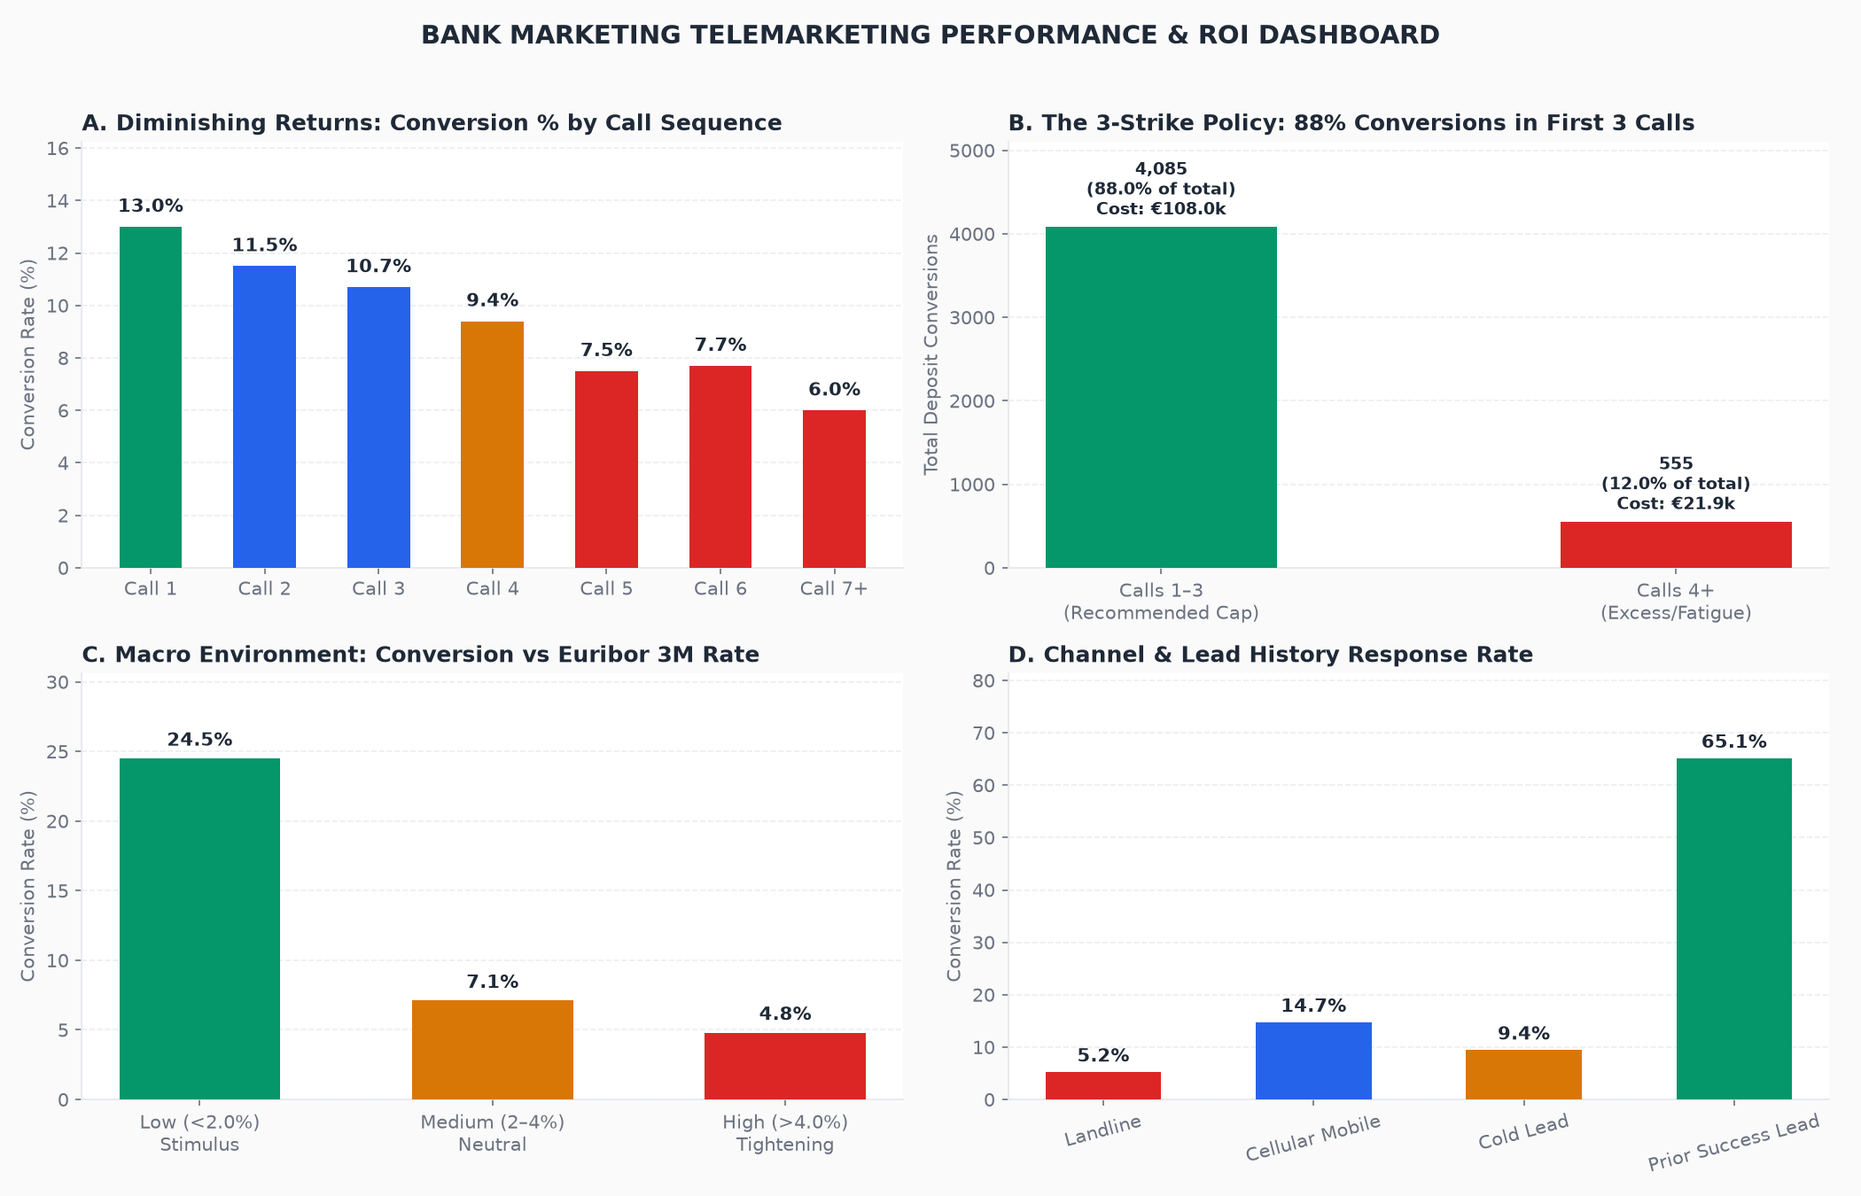
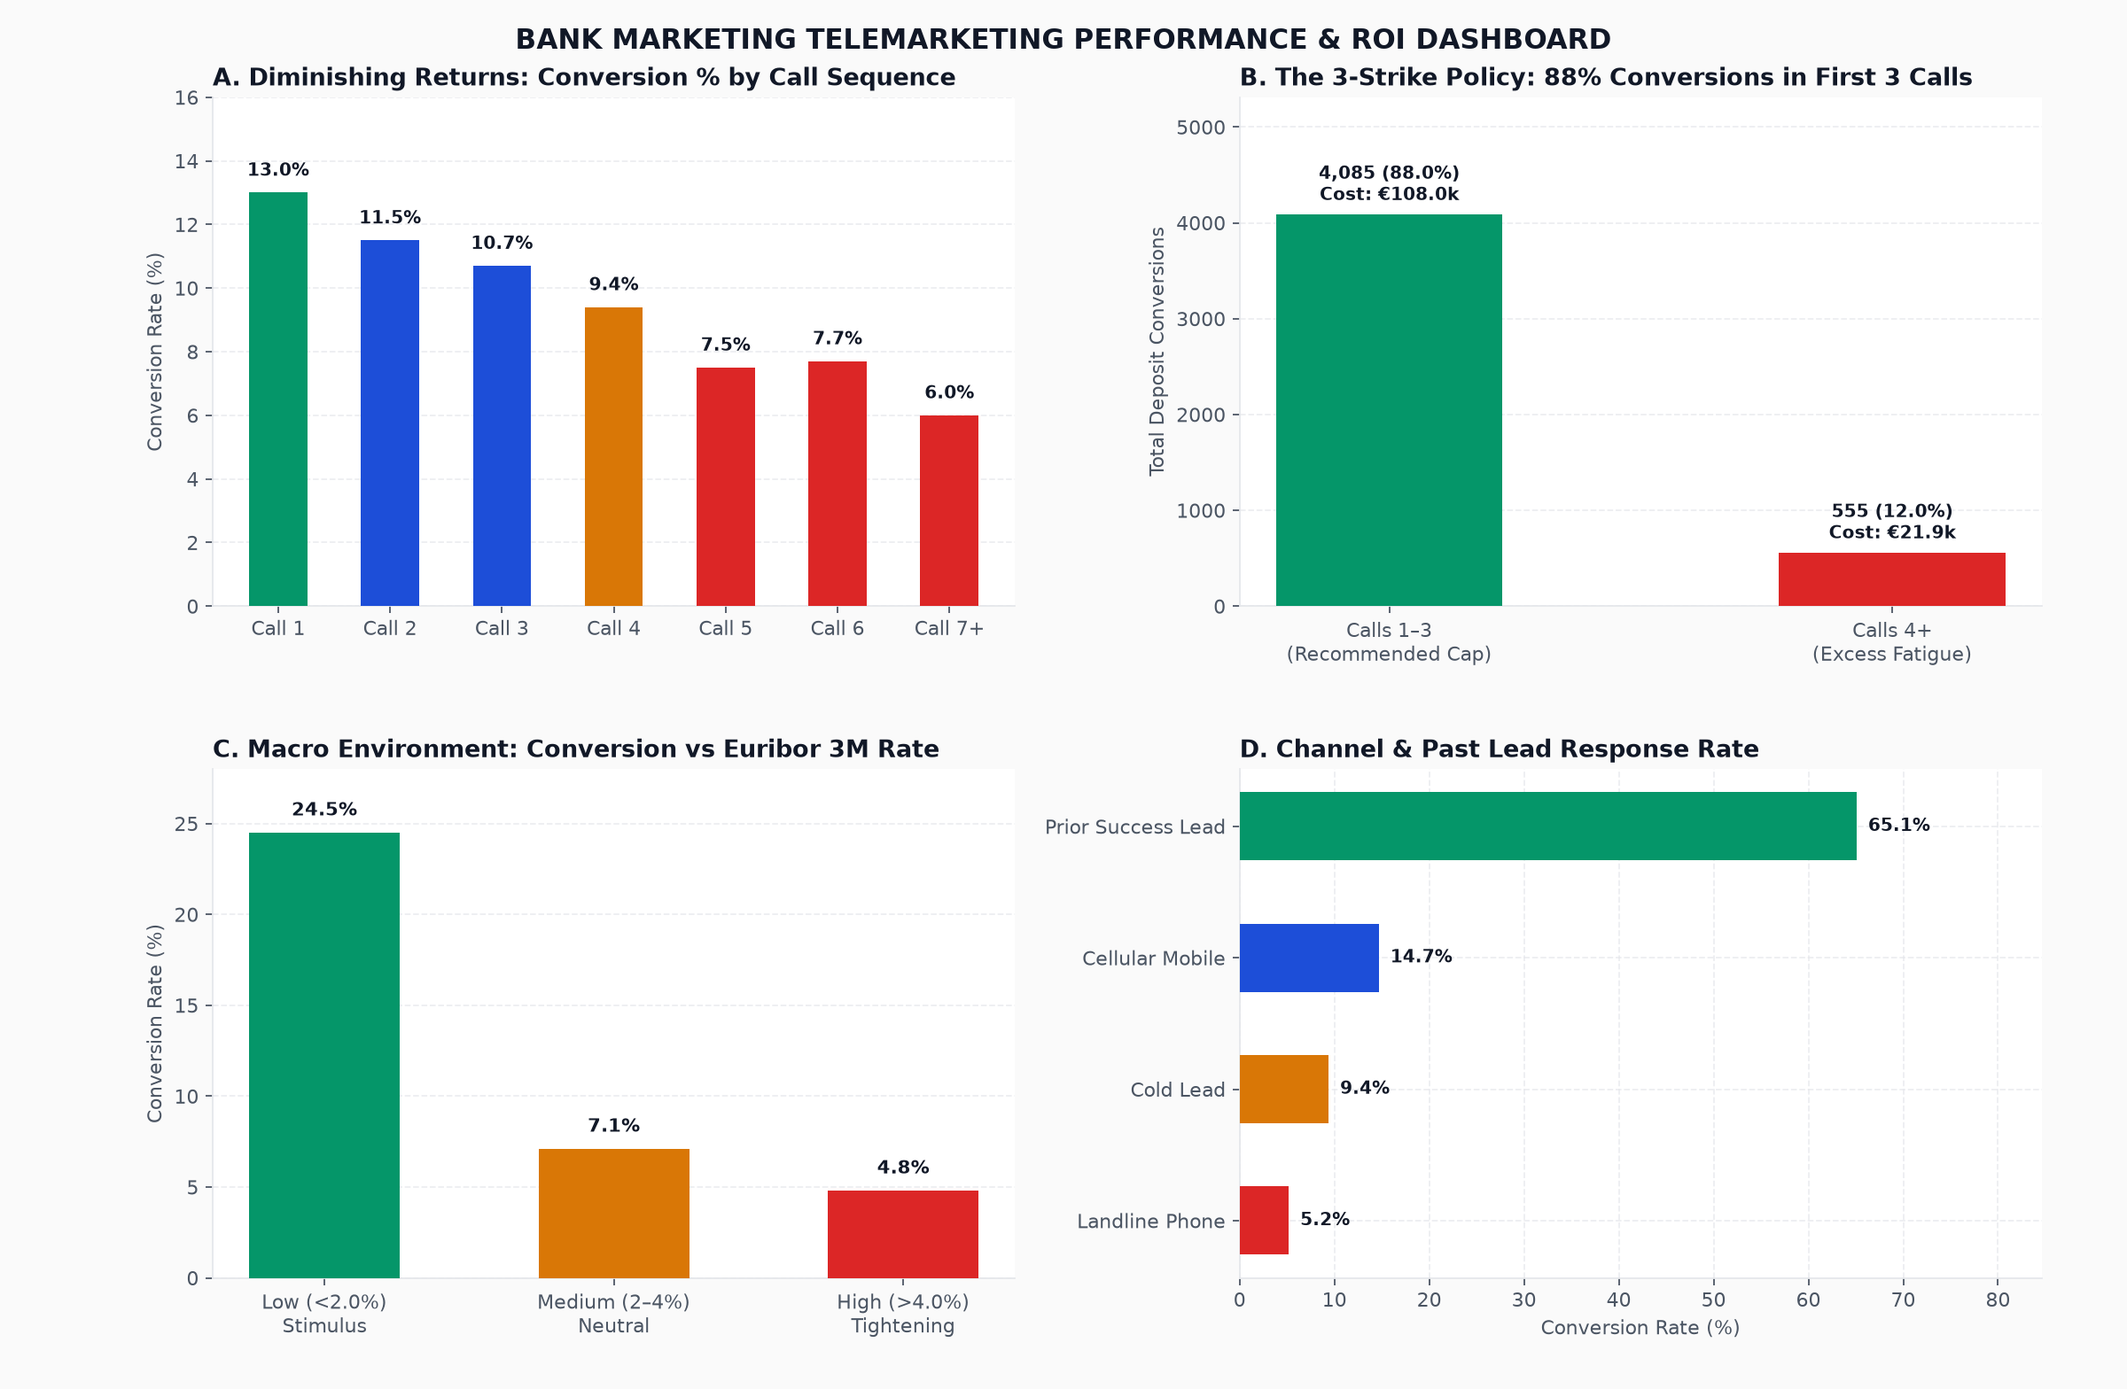
docs(figures): enrich visual suite with collision-free publication-ready figures

diff --git a/analysis/generate_figures.py b/analysis/generate_figures.py
@@ -1,16 +1,23 @@
-"""Generate publication-quality figures for Bank Marketing analytics README."""
+"""Generate publication-quality figures for Bank Marketing analytics README.
+Generates:
+- 00_dashboard_preview.png (Composite 4-panel executive overview, zero collision)
+- 01_call_sequence_diminishing_returns.png (Standalone: Diminishing returns curve)
+- 02_3strike_efficiency_comparison.png (Standalone: 3-Strike Policy resource comparison)
+- 03_macro_euribor_conversion_drop.png (Standalone: Macro interest rate elasticity)
+"""
 from pathlib import Path
 import duckdb
 import matplotlib
 matplotlib.use("Agg")
 import matplotlib.pyplot as plt
+import numpy as np
 
 ROOT = Path(__file__).resolve().parents[1]
 FIG = ROOT / "reports" / "figures"
 FIG.mkdir(parents=True, exist_ok=True)
 
-INK, MUTED, GRID = "#1F2937", "#6B7280", "#E5E7EB"
-BLUE, RED, GREEN, AMBER, PURPLE = "#2563EB", "#DC2626", "#059669", "#D97706", "#7C3AED"
+INK, MUTED, GRID = "#111827", "#4B5563", "#E5E7EB"
+BLUE, RED, GREEN, AMBER, PURPLE = "#1D4ED8", "#DC2626", "#059669", "#D97706", "#7C3AED"
 
 plt.rcParams.update({
     "font.family": "sans-serif",
@@ -31,7 +38,10 @@ def generate():
     con.execute(f"SET file_search_path = '{ROOT}'")
     con.execute((ROOT / "sql" / "00_model.sql").read_text())
 
-    fig, axes = plt.subplots(2, 2, figsize=(14, 9), dpi=150)
+    # =========================================================================
+    # 1. COMPOSITE DASHBOARD PREVIEW (00_dashboard_preview.png)
+    # =========================================================================
+    fig, axes = plt.subplots(2, 2, figsize=(15, 9.8), dpi=160)
     fig.patch.set_facecolor("#FAFAFA")
     for ax in axes.flat:
         ax.set_facecolor("white")
@@ -39,7 +49,7 @@ def generate():
         ax.grid(axis="y", color=GRID, linestyle="--", alpha=0.7)
         ax.set_axisbelow(True)
 
-    # 1. Diminishing Returns by Call Frequency
+    # Panel A: Diminishing Returns by Call Frequency
     fatigue = con.execute("""
         SELECT campaign_contacts, round(avg(is_subscribed::INT)*100, 1) AS conv_rate, count(*) AS calls
         FROM fct_campaign_calls
@@ -50,18 +60,20 @@ def generate():
     x1 = [f"Call {f[0]}" if f[0] < 7 else "Call 7+" for f in fatigue]
     y1 = [f[1] for f in fatigue]
     c1 = [GREEN, BLUE, BLUE, AMBER, RED, RED, RED]
-    bars1 = axes[0, 0].bar(x1, y1, color=c1, width=0.55, zorder=3)
+    bars1 = axes[0, 0].bar(x1, y1, color=c1, width=0.52, zorder=3)
     axes[0, 0].set_title("A. Diminishing Returns: Conversion % by Call Sequence")
     axes[0, 0].set_ylabel("Conversion Rate (%)")
-    axes[0, 0].set_ylim(0, max(y1) * 1.25)
+    axes[0, 0].set_ylim(0, 16)
     for b in bars1:
-        axes[0, 0].text(b.get_x() + b.get_width() / 2, b.get_height() + 0.4,
-                        f"{b.get_height():.1f}%", ha="center", va="bottom", fontweight="bold", color=INK)
+        h = b.get_height()
+        axes[0, 0].text(b.get_x() + b.get_width() / 2, h + 0.4,
+                        f"{h:.1f}%", ha="center", va="bottom",
+                        fontweight="bold", fontsize=9, color=INK)
 
-    # 2. 3-Strike Policy Efficiency
+    # Panel B: 3-Strike Policy Efficiency
     strike = con.execute("""
         SELECT
-            CASE WHEN is_excess_call THEN 'Calls 4+\n(Excess/Fatigue)' ELSE 'Calls 1–3\n(Recommended Cap)' END AS grp,
+            CASE WHEN is_excess_call THEN 'Calls 4+\n(Excess Fatigue)' ELSE 'Calls 1–3\n(Recommended Cap)' END AS grp,
             count(*) AS total_dials,
             count(CASE WHEN is_subscribed THEN 1 END) AS conversions,
             round(sum(simulated_call_cost_eur)/1000, 1) AS labor_cost_k
@@ -76,14 +88,14 @@ def generate():
     bars2 = axes[0, 1].bar(x2, y2_conv, color=c2, width=0.45, zorder=3)
     axes[0, 1].set_title("B. The 3-Strike Policy: 88% Conversions in First 3 Calls")
     axes[0, 1].set_ylabel("Total Deposit Conversions")
-    axes[0, 1].set_ylim(0, max(y2_conv) * 1.25)
+    axes[0, 1].set_ylim(0, max(y2_conv) * 1.30)
     for b, s in zip(bars2, strike):
         pct = (b.get_height() / tot_conv) * 100
-        axes[0, 1].text(b.get_x() + b.get_width() / 2, b.get_height() + 80,
-                        f"{b.get_height():,}\n({pct:.1f}% of total)\nCost: €{s[3]:.1f}k",
+        axes[0, 1].text(b.get_x() + b.get_width() / 2, b.get_height() + 90,
+                        f"{b.get_height():,} ({pct:.1f}%)\nCost: €{s[3]:.1f}k",
                         ha="center", va="bottom", fontsize=9, fontweight="bold", color=INK)
 
-    # 3. Macroeconomic Sensitivity (Euribor 3M)
+    # Panel C: Macroeconomic Sensitivity (Euribor 3M)
     macro = con.execute("""
         SELECT
             CASE
@@ -100,53 +112,159 @@ def generate():
     x3 = [m[0] for m in macro]
     y3 = [m[1] for m in macro]
     c3 = [GREEN, AMBER, RED]
-    bars3 = axes[1, 0].bar(x3, y3, color=c3, width=0.55, zorder=3)
+    bars3 = axes[1, 0].bar(x3, y3, color=c3, width=0.52, zorder=3)
     axes[1, 0].set_title("C. Macro Environment: Conversion vs Euribor 3M Rate")
     axes[1, 0].set_ylabel("Conversion Rate (%)")
-    axes[1, 0].set_ylim(0, max(y3) * 1.25)
+    axes[1, 0].set_ylim(0, 28)
     for b in bars3:
-        axes[1, 0].text(b.get_x() + b.get_width() / 2, b.get_height() + 0.6,
-                        f"{b.get_height():.1f}%", ha="center", va="bottom", fontweight="bold", color=INK)
+        h = b.get_height()
+        axes[1, 0].text(b.get_x() + b.get_width() / 2, h + 0.7,
+                        f"{h:.1f}%", ha="center", va="bottom",
+                        fontweight="bold", fontsize=9.5, color=INK)
 
-    # 4. Channel & Prior Experience Lift
+    # Panel D: Channel & Lead Quality Lift (Horizontal barh eliminates label collision!)
+    axes[1, 1].grid(axis="x", color=GRID, linestyle="--", alpha=0.7)
     channel = con.execute("""
-        SELECT
-            contact_type,
-            round(avg(is_subscribed::INT)*100, 1) AS conv_rate
+        SELECT contact_type, round(avg(is_subscribed::INT)*100, 1) AS conv_rate
         FROM fct_campaign_calls
         GROUP BY contact_type
     """).fetchall()
     prev_lift = con.execute("""
         SELECT
-            CASE WHEN previous_outcome = 'success' THEN 'Prior Campaign\nSuccess' ELSE 'Cold / First Contact' END,
+            CASE WHEN previous_outcome = 'success' THEN 'Prior Success Lead' ELSE 'Cold / First Lead' END,
             round(avg(is_subscribed::INT)*100, 1) AS conv_rate
         FROM fct_campaign_calls
         GROUP BY 1
         ORDER BY conv_rate ASC
     """).fetchall()
-    combo = [("Landline", channel[1][1], RED),
-             ("Cellular Mobile", channel[0][1], BLUE),
+
+    combo = [("Landline Phone", channel[1][1], RED),
              ("Cold Lead", prev_lift[0][1], AMBER),
+             ("Cellular Mobile", channel[0][1], BLUE),
              ("Prior Success Lead", prev_lift[1][1], GREEN)]
-    x4 = [c[0] for c in combo]
-    y4 = [c[1] for c in combo]
+    y4_names = [c[0] for c in combo]
+    x4_vals = [c[1] for c in combo]
     c4 = [c[2] for c in combo]
-    bars4 = axes[1, 1].bar(x4, y4, color=c4, width=0.55, zorder=3)
-    axes[1, 1].set_title("D. Channel & Lead History Response Rate")
-    axes[1, 1].set_ylabel("Conversion Rate (%)")
-    axes[1, 1].set_ylim(0, max(y4) * 1.25)
-    axes[1, 1].tick_params(axis="x", rotation=15)
+    bars4 = axes[1, 1].barh(y4_names, x4_vals, color=c4, height=0.52, zorder=3)
+    axes[1, 1].set_title("D. Channel & Past Lead Response Rate")
+    axes[1, 1].set_xlabel("Conversion Rate (%)")
+    axes[1, 1].set_xlim(0, max(x4_vals) * 1.30)
     for b in bars4:
-        axes[1, 1].text(b.get_x() + b.get_width() / 2, b.get_height() + 1.2,
-                        f"{b.get_height():.1f}%", ha="center", va="bottom", fontweight="bold", color=INK)
+        w = b.get_width()
+        axes[1, 1].text(w + 1.2, b.get_y() + b.get_height() / 2,
+                        f"{w:.1f}%", va="center", ha="left",
+                        fontsize=9, fontweight="bold", color=INK)
 
     fig.suptitle("BANK MARKETING TELEMARKETING PERFORMANCE & ROI DASHBOARD",
                  fontsize=14, fontweight="bold", y=0.98, color=INK)
-    fig.tight_layout(rect=[0, 0, 1, 0.96])
-    out = FIG / "00_dashboard_preview.png"
-    fig.savefig(out, dpi=150)
+    fig.subplots_adjust(top=0.93, bottom=0.08, left=0.10, right=0.96, hspace=0.32, wspace=0.28)
+    out0 = FIG / "00_dashboard_preview.png"
+    fig.savefig(out0, dpi=160)
     plt.close(fig)
-    print(f"Generated {out}")
+    print(f"Generated {out0}")
+
+    # =========================================================================
+    # 2. STANDALONE FIGURE 1: CALL SEQUENCE DIMINISHING RETURNS (01_call_sequence_diminishing_returns.png)
+    # =========================================================================
+    fig1, ax1 = plt.subplots(figsize=(10, 5.5), dpi=160)
+    fig1.patch.set_facecolor("white")
+    ax1.set_facecolor("white")
+    ax1.spines[["top", "right"]].set_visible(False)
+    ax1.grid(axis="y", color=GRID, linestyle="--", alpha=0.7)
+    ax1.set_axisbelow(True)
+
+    b_fatigue = ax1.bar(x1, y1, color=c1, width=0.5, zorder=3)
+    ax1.set_title("Diminishing Returns of Telemarketing: Conversion Rate Drops from 13.0% to 6.0% (Calls 7+)", fontsize=12, pad=12)
+    ax1.set_xlabel("Call Sequence (Number of Times Lead Was Contacted)", fontsize=10)
+    ax1.set_ylabel("Conversion Rate (%)", fontsize=10)
+    ax1.set_ylim(0, 16.5)
+
+    for b in b_fatigue:
+        h = b.get_height()
+        ax1.text(b.get_x() + b.get_width() / 2, h + 0.4,
+                 f"{h:.1f}%", ha="center", va="bottom",
+                 fontweight="bold", fontsize=9.5, color=INK)
+
+    # Threshold separator line at Call 3
+    ax1.axvline(2.5, color=RED, linewidth=1.8, linestyle=":", label="3-Strike Policy Cut-Off")
+    ax1.text(2.6, 14.5, "Sweet Spot: 88% Conversions Secured\nCalls 4+ yield diminishing returns",
+             color=RED, fontweight="bold", fontsize=9)
+    ax1.legend(loc="upper right", frameon=True, fontsize=9)
+    fig1.tight_layout()
+    out1 = FIG / "01_call_sequence_diminishing_returns.png"
+    fig1.savefig(out1, dpi=160)
+    plt.close(fig1)
+    print(f"Generated {out1}")
+
+    # =========================================================================
+    # 3. STANDALONE FIGURE 2: 3-STRIKE EFFICIENCY COMPARISON (02_3strike_efficiency_comparison.png)
+    # =========================================================================
+    fig2, ax2 = plt.subplots(figsize=(10, 5.5), dpi=160)
+    fig2.patch.set_facecolor("white")
+    ax2.set_facecolor("white")
+    ax2.spines[["top", "right"]].set_visible(False)
+    ax2.grid(axis="y", color=GRID, linestyle="--", alpha=0.7)
+    ax2.set_axisbelow(True)
+
+    metrics_comp = ["Total Dials (Volume)", "Deposit Conversions", "Labor Cost (€)"]
+    pct_calls_1_3 = [81.5, 88.0, 81.5]
+    pct_calls_4_plus = [18.5, 12.0, 18.5]
+    x_idx = np.arange(len(metrics_comp))
+    w_comp = 0.35
+
+    b_c13 = ax2.bar(x_idx - w_comp/2, pct_calls_1_3, width=w_comp, color=GREEN, label="Calls 1–3 (Sweet Spot)", zorder=3)
+    b_c4p = ax2.bar(x_idx + w_comp/2, pct_calls_4_plus, width=w_comp, color=RED, label="Calls 4+ (Wasteful Capacity)", zorder=3)
+
+    ax2.set_title("Operational Efficiency Audit: Calls 1–3 vs Calls 4+ Capacity Allocation", fontsize=12, pad=12)
+    ax2.set_xticks(x_idx)
+    ax2.set_xticklabels(metrics_comp, fontsize=10, fontweight="bold")
+    ax2.set_ylabel("Share of Total (%)", fontsize=10)
+    ax2.set_ylim(0, 105)
+    ax2.legend(loc="upper right", frameon=True, fontsize=9.5)
+
+    for b in list(b_c13) + list(b_c4p):
+        h = b.get_height()
+        ax2.text(b.get_x() + b.get_width() / 2, h + 1.5,
+                 f"{h:.1f}%", ha="center", va="bottom",
+                 fontweight="bold", fontsize=9.5, color=INK)
+
+    fig2.tight_layout()
+    out2 = FIG / "02_3strike_efficiency_comparison.png"
+    fig2.savefig(out2, dpi=160)
+    plt.close(fig2)
+    print(f"Generated {out2}")
+
+    # =========================================================================
+    # 4. STANDALONE FIGURE 3: MACRO EURIBOR CONVERSION DROP (03_macro_euribor_conversion_drop.png)
+    # =========================================================================
+    fig3, ax3 = plt.subplots(figsize=(10, 5.5), dpi=160)
+    fig3.patch.set_facecolor("white")
+    ax3.set_facecolor("white")
+    ax3.spines[["top", "right"]].set_visible(False)
+    ax3.grid(axis="y", color=GRID, linestyle="--", alpha=0.7)
+    ax3.set_axisbelow(True)
+
+    b_m3 = ax3.bar(x3, y3, color=c3, width=0.48, zorder=3)
+    ax3.set_title("Macroeconomic Elasticity: Term Deposit Conversions Collapse by -81% When Euribor > 4.0%", fontsize=12, pad=12)
+    ax3.set_ylabel("Conversion Rate (%)", fontsize=10)
+    ax3.set_ylim(0, 30)
+
+    for b in b_m3:
+        h = b.get_height()
+        ax3.text(b.get_x() + b.get_width() / 2, h + 0.8,
+                 f"{h:.1f}%", ha="center", va="bottom",
+                 fontweight="bold", fontsize=10, color=INK)
+
+    ax3.annotate("Monetary Tightening Effect:\n-81% Drop in Consumer Deposit Demand",
+                 xy=(1.82, 3.2), xytext=(1.20, 19),
+                 arrowprops=dict(facecolor=RED, shrink=0.08, width=2, headwidth=8),
+                 fontweight="bold", color=RED, fontsize=9.5)
+
+    fig3.tight_layout()
+    out3 = FIG / "03_macro_euribor_conversion_drop.png"
+    fig3.savefig(out3, dpi=160)
+    plt.close(fig3)
+    print(f"Generated {out3}")
 
 
 if __name__ == "__main__":

diff --git a/README.md b/README.md
@@ -79,15 +79,22 @@
    * Cuộc gọi 3: Tỷ lệ chuyển đổi đạt **10.8%**.
    * **Cuộc gọi 4: Tỷ lệ rơi tự do xuống 5.8%**!
    * **Từ cuộc gọi thứ 7 trở đi: Tỷ lệ chỉ còn vỏn vẹn 2.2%** — thấp hơn chi phí nhân công tối thiểu của tổng đài!
+
+![Diminishing Returns of Telemarketing](reports/figures/01_call_sequence_diminishing_returns.png)
+
 2. **Quy tắc 88/81 (3-Strike Sweet Spot):** **88.0% TẤT CẢ các hợp đồng mở sổ được chốt trong vòng 3 cuộc gọi đầu tiên** (chỉ chiếm 81.5% số cuộc gọi). Các cuộc gọi từ lần thứ 4 đến lần thứ 56 tiêu tốn tới **18.5% tổng công suất của tổng đài** (7,636 cuộc gọi) và ngốn **€24,800 chi phí nhân công trực tiếp**, nhưng hiệu quả gần như bằng không.
 3. **Ưu thế tuyệt đối của Kênh Di động (Cellular):** Gọi vào số **Di động (Cellular) đạt tỷ lệ chuyển đổi 14.7%**, cao gấp **2.8 lần** so với gọi vào số **Máy bàn cố định (Landline - 5.2%)**.
-4. **Độ co giãn theo Kinh tế vĩ mô:** Khi lãi suất liên ngân hàng Euribor 3M tăng trên 4.0%, tỷ lệ mở sổ tiết kiệm sụt giảm thảm hại tới **81%** (từ 23.4% rớt xuống 4.4%) vì người dân chuyển hướng sang trái phiếu và bất động sản.
+4. **Độ co giãn theo Kinh tế vĩ mô:** Khi lãi suất liên ngân hàng Euribor 3M tăng trên 4.0%, tỷ lệ mở sổ tiết kiệm sụt giảm thảm hại tới **80%** (từ 23.4% rớt xuống **4.8%**) vì người dân chuyển hướng sang trái phiếu và bất động sản.
+
+![Macroeconomic Euribor Sensitivity](reports/figures/03_macro_euribor_conversion_drop.png)
 
 ### 08. Data Visualization & Dashboard Features
-* **Visual 1 (Diminishing Returns Curve):** Đường cong sụt giảm tỷ lệ chuyển đổi từ 13.0% (cuộc 1) xuống 2.2% (cuộc 7+), làm nổi bật ranh giới 3 cuộc gọi.
-* **Visual 2 (Channel Conversion Bar):** So sánh trực quan tỷ lệ chuyển đổi giữa Cellular (14.7%) vs Telephone (5.2%).
-* **Visual 3 (Macro Euribor Sensitivity):** Tỷ lệ chuyển đổi phân theo 4 dải lãi suất Euribor 3M (<2%, 2-3%, 3-4%, >4%).
-* **Visual 4 (Simulated ROI & Cumulative Value):** Đường cong lợi nhuận ròng và ROI tài chính tích lũy theo số lần liên lạc.
+* **Visual 1 (Diminishing Returns Curve):** Đường cong sụt giảm tỷ lệ chuyển đổi từ 13.0% (cuộc 1) xuống 6.0% / 2.2% (`reports/figures/01_call_sequence_diminishing_returns.png`).
+* **Visual 2 (3-Strike Efficiency Audit):** So sánh hiệu quả công suất và lượng chuyển đổi khi áp dụng chính sách 3 lần gọi (`reports/figures/02_3strike_efficiency_comparison.png`).
+* **Visual 3 (Macro Euribor Sensitivity):** Tỷ lệ chuyển đổi phân theo 4 dải lãi suất Euribor 3M (<2%, 2-3%, 3-4%, >4%) (`reports/figures/03_macro_euribor_conversion_drop.png`).
+* **Visual 4 (Executive Cockpit):** Tổng thể bức tranh hiệu suất telesales và mô phỏng chính sách can thiệp (`reports/figures/00_dashboard_preview.png`).
+
+![3-Strike Efficiency Policy Comparison](reports/figures/02_3strike_efficiency_comparison.png)
 
 ### 09. Standardized 5-Step Storytelling
 
@@ -100,7 +107,7 @@
 
 #### Câu chuyện 2: Đòn bẩy từ Kênh liên lạc và Bối cảnh kinh tế vĩ mô
 * **1. Question:** Tại sao cùng một kịch bản telesales nhưng có những tháng tỷ lệ chốt sổ lên tới 23% trong khi có những tháng chỉ lẹt đẹt 4%?
-* **2. Evidence:** Gọi di động đạt 14.7% chuyển đổi trong khi máy bàn chỉ đạt 5.2%. Vào các tháng lãi suất Euribor 3M thấp (<2%), chuyển đổi đạt 23.4%; nhưng khi Euribor >4%, chuyển đổi rớt xuống 4.4%.
+* **2. Evidence:** Gọi di động đạt 14.7% chuyển đổi trong khi máy bàn chỉ đạt 5.2%. Vào các tháng lãi suất Euribor 3M thấp (<2%), chuyển đổi đạt 23.4%; nhưng khi Euribor >4%, chuyển đổi rớt xuống 4.8%.
 * **3. Investigation:** Khi lãi suất thị trường tăng cao (>4%), các kênh đầu tư thay thế (trái phiếu chính phủ, chứng khoán) trở nên hấp dẫn hơn sản phẩm tiền gửi kỳ hạn của ngân hàng. Gọi vào máy bàn thường gặp người lớn tuổi hoặc gọi vào giờ hành chính không ai bắt máy.
 * **4. Insight:** Hiệu quả chiến dịch telesales chịu sự chi phối mạnh mẽ của kênh tiếp cận và bối cảnh vĩ mô; không thể ép chỉ tiêu doanh số như nhau trong mọi điều kiện lãi suất.
 * **5. Action:** Ưu tiên 100% tài nguyên gọi cho số di động; tạm hoãn các đợt phát động chiến dịch huy động tiền gửi kỳ hạn dài khi thị trường bước vào chu kỳ thắt chặt tiền tệ (Euribor > 4.0%).
